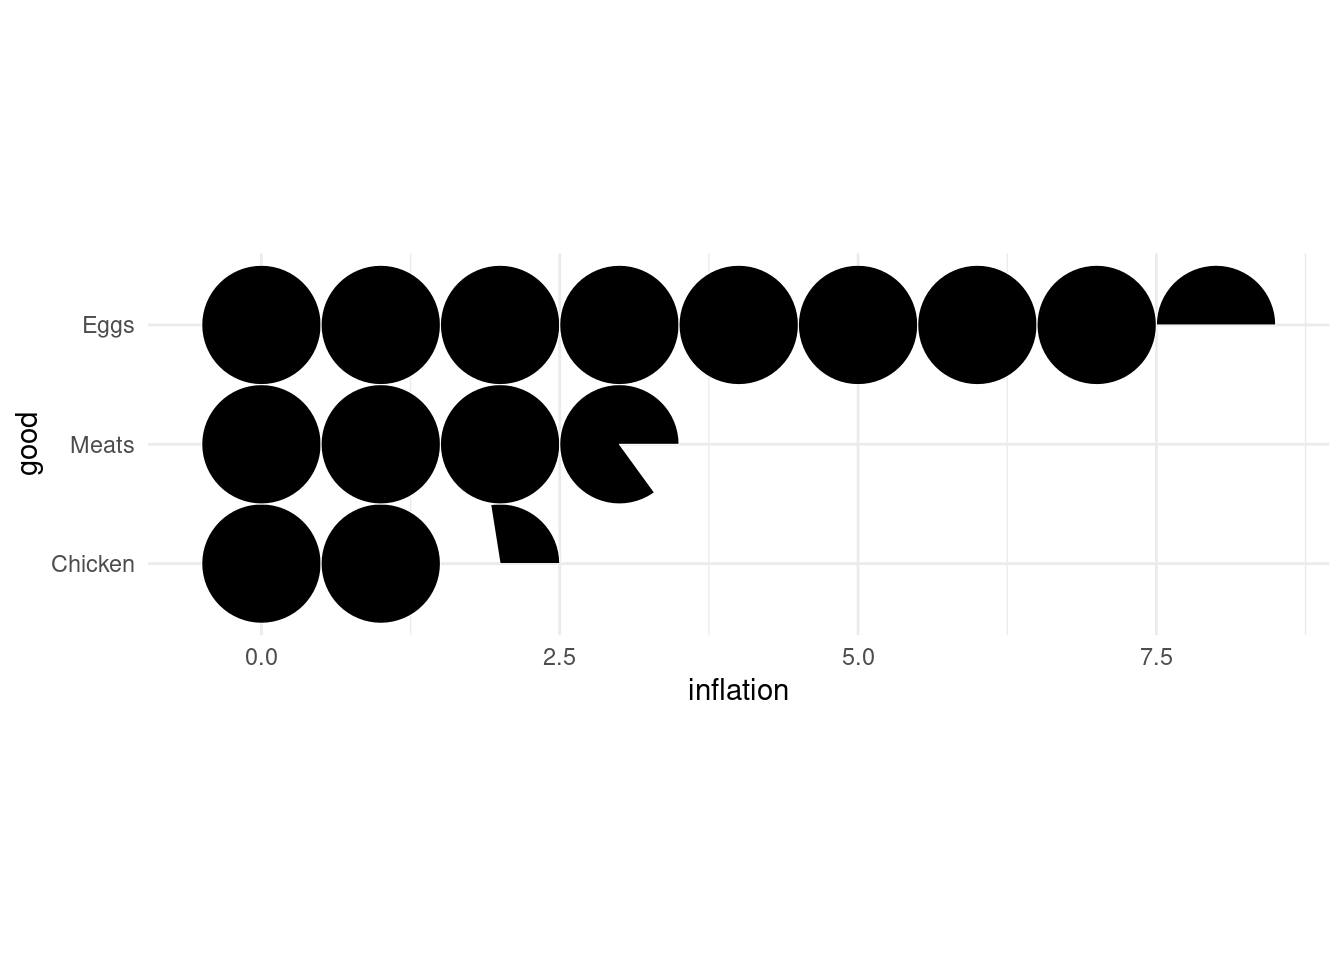
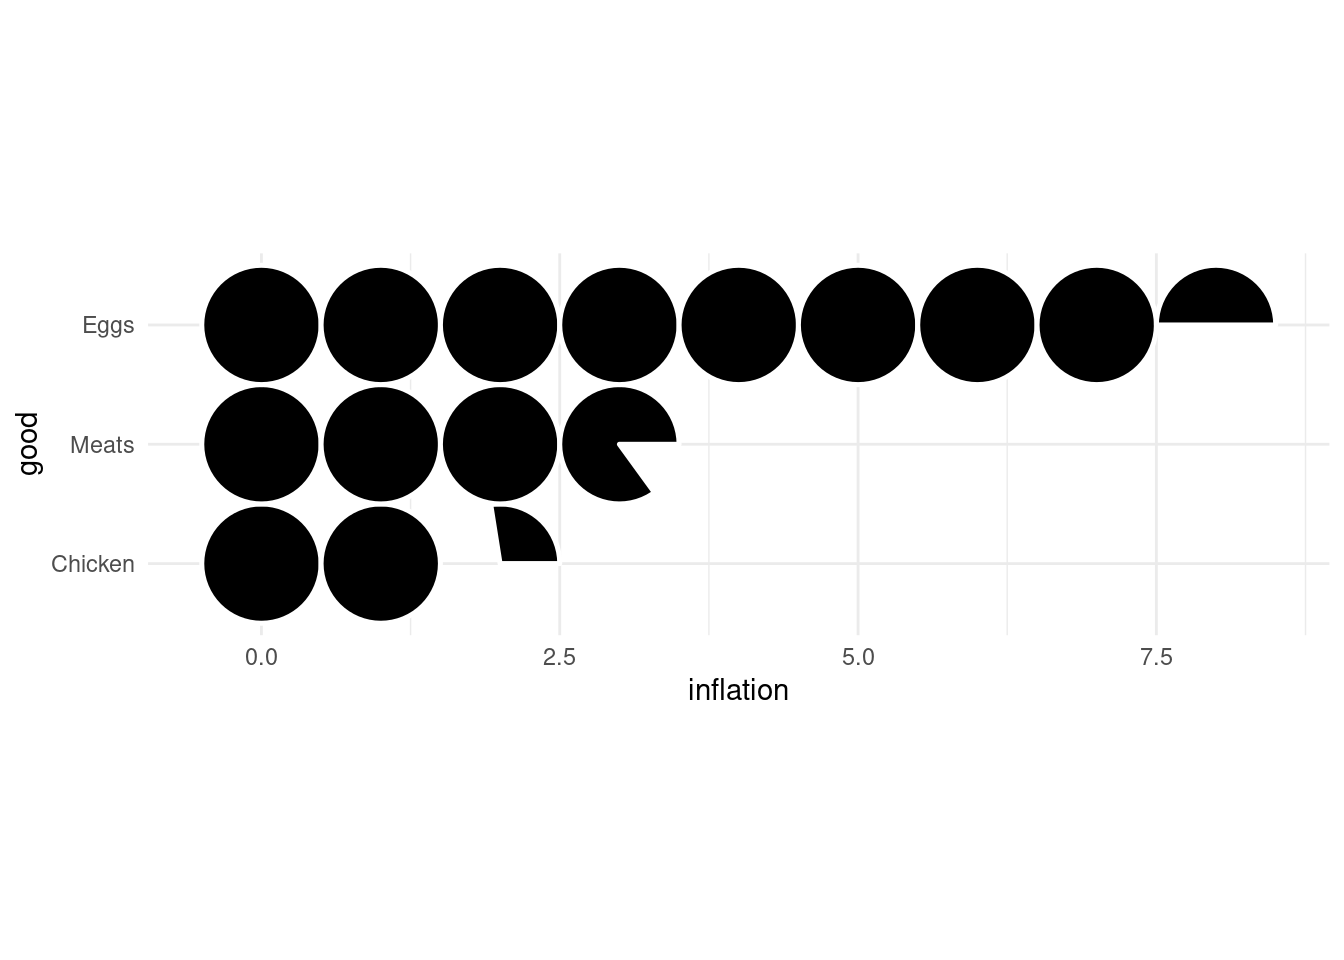
Keep documenting stuffs.

diff --git a/README.md b/README.md
@@ -63,7 +63,7 @@ prod_df <- prod_df |>
 
 prod_df |>
   ggplot() + 
-  geom_series_circles(aes(inflation, good), color = "white", linewdith = 2.5) + 
+  geom_series_circles(aes(inflation, good), color = "white", linewidth = 2.5) + 
   coord_equal() + 
   theme_minimal()
 ```
@@ -76,7 +76,7 @@ filling color.
 ``` r
 prod_df |>
   ggplot() + 
-  geom_series_circles(aes(inflation, good, fill = good),color = "black", linewdith = 2.5) + 
+  geom_series_circles(aes(inflation, good, fill = good),color = "black", linewidth = 2.5) + 
   coord_equal() + 
   theme_minimal()
 ```
